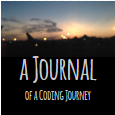
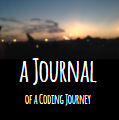
Reverts to normal png file

diff --git a/index.html b/index.html
@@ -4,7 +4,7 @@
     <title>a Journal</title>
     <meta name="viewport" content="width=device-width, initial-scale=1.0">
     <link href="https://fonts.googleapis.com/css?family=Amatic+SC|Delius|Just+Another+Hand" rel="stylesheet">
-    <link href="https://dl.dropboxusercontent.com/s/8lwo2pa0l5n2ahr/apple-touch-icon-precompressed.PNG" sizes="114x114" rel="apple-touch-icon-precompressed"/>
+    <link href="https://dl.dropboxusercontent.com/s/8lwo2pa0l5n2ahr/apple-touch-icon.PNG" rel="apple-touch-icon"/>
     <link href="style.css" rel="stylesheet" type="text/css">
   </head>
 
